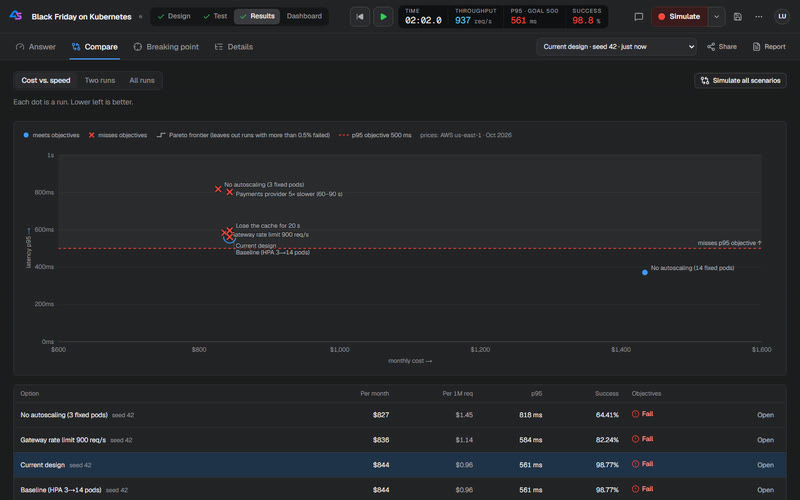
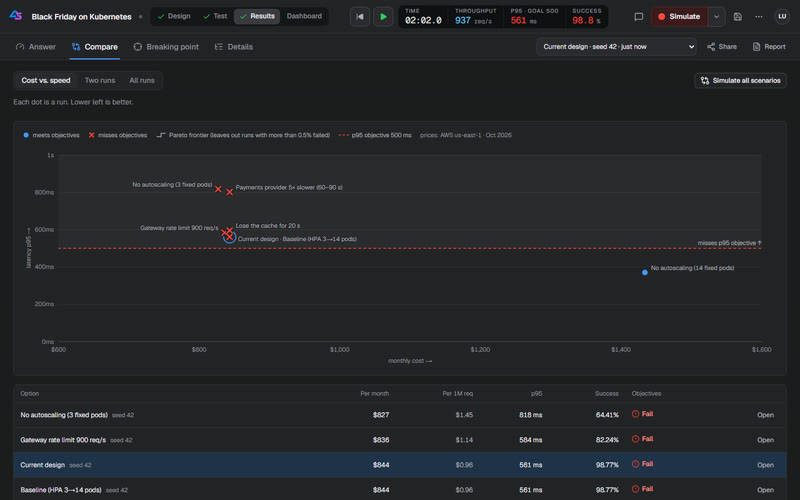
fix(web): keep the trade-offs map's labels off every marker and label
The README's trade-offs shot, Black Friday with every scenario simulated, puts four runs within $8
and 35 ms of each other. There the labels sat on markers: the X of one run covered the "G" of
"Gateway rate limit 900 req/s", and "Current design" and "Baseline (HPA 3→14 pods)" were stacked
on one point. placeLabels kept labels apart from each other but never from the markers.

Now each label takes the first free place, by the 6.4 px a character the map counts (Geist
Sans runs about 5 px, so the boxes err wide):
- just above its point on its usual side;
- its other side, if the label fits there whole;
- then a line down, a line up, and so on to four lines, with a leader to its point.
A place is free when it covers no run's marker (the current run's ring counts), no label already
placed and not the objective line's own label. A label with no free place is left out; the table
and the hover card still name the run. Runs drawn at one point share one label that names each:
"Current design · Baseline (HPA 3→14 pods)".

The vitest cases include the shot's own cluster, by its coordinates on the 1,357-px map. Checked
in the browser in light and dark at 1440 × 900 and at 390 px wide: no label's rendered box
touches a marker or another label. tradeoffs.jpg is retaken.

Changed region(s): [[0.1875, 0.45, 0.4375, 0.51], [0.1562, 0.36, 0.4375, 0.39]]

diff --git a/apps/web/src/components/decide/TradeoffMap.tsx b/apps/web/src/components/decide/TradeoffMap.tsx
@@ -32,16 +32,27 @@ const M = { top: 20, right: 28, bottom: 44, left: 64 };
 
 /** A point's direct label: longer ones end in an ellipsis. */
 const LABEL_CHARS = 40;
-/** The width of a character of the labels' 11 px monospace. */
+/** The width of a character of the labels' 11 px text. */
 const CHAR_W = 6.4;
-/** From a point's centre to its label. */
-const LABEL_GAP = 11;
+/** A marker's half-width: a point is drawn 7 px across its centre, and a pixel is kept around it. */
+const MARKER_R = 8;
+/** The half-width of the current run's marker, whose ring is drawn 11 px across its centre. */
+const ACTIVE_R = 12;
+/** From the edge of a point's marker to its label. */
+const LABEL_PAD = 3;
 /**
  * A label sits this far above its point: the frontier leaves each of its points to the right, at
  * the point's height, and would strike through a label beside it.
  */
 const LABEL_LIFT = 8;
+/** A line of the labels' text, which is how tall a label is. */
 const LINE = 12;
+/** The objective line's label. */
+const SLO_LABEL = "misses p95 objective ↑";
+/** Lines above or below its first place that a label may move before it is left out. */
+const MAX_LINES = 4;
+/** Points this close are drawn at one place. */
+const SAME_PLACE = 1;
 
 /** Where a point's label sits on the map, and what it says. */
 export interface PlacedLabel {
@@ -49,6 +60,23 @@ export interface PlacedLabel {
   y: number;
   anchor: "start" | "end";
   text: string;
+}
+
+/** A part of the map a label must not cover. */
+export interface Box {
+  x0: number;
+  x1: number;
+  y0: number;
+  y1: number;
+}
+
+/** A point to label: its marker's half-width `r` is the usual 8 px unless given. */
+interface LabelledPoint {
+  id: string;
+  label: string;
+  x: number;
+  y: number;
+  r?: number;
 }
 
 /** A label cut to `chars` characters with an ellipsis, after its last whole word when that keeps most of it. */
@@ -59,32 +87,78 @@ function shorten(label: string, chars: number): string {
   return `${(words.length >= chars * 0.6 ? words : cut).trimEnd()}…`;
 }
 
+const overlap = (a: Box, b: Box) => a.x0 < b.x1 && b.x0 < a.x1 && a.y0 < b.y1 && b.y0 < a.y1;
+
+/** What a point's marker covers: `r` either side of its centre, the usual 8 px unless given. */
+export function markerBox(p: { x: number; y: number; r?: number }): Box {
+  const r = p.r ?? MARKER_R;
+  return { x0: p.x - r, x1: p.x + r, y0: p.y - r, y1: p.y + r };
+}
+
+function labelBox(l: PlacedLabel): Box {
+  const width = l.text.length * CHAR_W;
+  const x0 = l.anchor === "start" ? l.x : l.x - width;
+  return { x0, x1: x0 + width, y0: l.y - LINE / 2, y1: l.y + LINE / 2 };
+}
+
+/** The points drawn at one place, as one point whose label names each of them, in their order. */
+function atOnePlace(points: LabelledPoint[]): LabelledPoint[] {
+  const places: LabelledPoint[][] = [];
+  for (const p of points) {
+    const place = places.find(([q]) => Math.abs(q.x - p.x) <= SAME_PLACE && Math.abs(q.y - p.y) <= SAME_PLACE);
+    if (place) place.push(p);
+    else places.push([p]);
+  }
+  return places.map((place) => ({
+    ...place[0],
+    label: [...new Set(place.map((p) => shorten(p.label, LABEL_CHARS)))].join(" · "),
+    r: Math.max(...place.map((p) => p.r ?? MARKER_R)),
+  }));
+}
+
 /**
- * The points' direct labels, just above each point: right of it, or left of it when the right
- * would run past the plot (cut to the wider side when neither fits). Placed top first, a label
- * that would overlap one already placed moves down a line.
+ * Where a point's label may go, best first. Just above the point: right of it, or left of it
+ * when the right would run past the plot (cut to the wider side when neither fits), then on its
+ * other side if the label fits there whole. Then the same a line lower, a line higher, two lines
+ * lower and so on, inside the plot's top and bottom.
+ */
+function placesFor(p: LabelledPoint, plot: { left: number; right: number; top?: number; bottom?: number }): PlacedLabel[] {
+  const gap = (p.r ?? MARKER_R) + LABEL_PAD;
+  const room = { start: plot.right - (p.x + gap), end: p.x - gap - plot.left };
+  const width = p.label.length * CHAR_W;
+  const first: PlacedLabel["anchor"] = width <= room.start || (width > room.end && room.start >= room.end) ? "start" : "end";
+  const other: PlacedLabel["anchor"] = first === "start" ? "end" : "start";
+  const sides = width <= room[other] ? [first, other] : [first];
+  const places: PlacedLabel[] = [];
+  for (let k = 0; k <= 2 * MAX_LINES; k++) {
+    const y = p.y - LABEL_LIFT + (k % 2 === 0 ? k / 2 : -(k + 1) / 2) * LINE;
+    if (y - LINE / 2 < (plot.top ?? -Infinity) || y + LINE / 2 > (plot.bottom ?? Infinity)) continue;
+    for (const anchor of sides) {
+      const text = width <= room[anchor] ? p.label : shorten(p.label, Math.max(Math.floor(room[anchor] / CHAR_W), 1));
+      places.push({ x: anchor === "start" ? p.x + gap : p.x - gap, y, anchor, text });
+    }
+  }
+  return places;
+}
+
+/**
+ * The points' direct labels, placed top first, each in the first of its places (see `placesFor`)
+ * that covers no point's marker, no label already placed and none of the `keepClear` boxes. A
+ * label with no such place is left out: the table and the hover card still name its point. Points
+ * drawn at one place share one label, on the first of them, that names each.
  */
 export function placeLabels(
-  points: { id: string; label: string; x: number; y: number }[],
-  plot: { left: number; right: number },
+  points: LabelledPoint[],
+  plot: { left: number; right: number; top?: number; bottom?: number },
+  keepClear: Box[] = [],
 ): Map<string, PlacedLabel> {
+  const taken = [...keepClear, ...points.map(markerBox)];
   const labels = new Map<string, PlacedLabel>();
-  const placed: { x0: number; x1: number; y: number }[] = [];
-  for (const p of [...points].sort((a, b) => a.y - b.y)) {
-    const full = shorten(p.label, LABEL_CHARS);
-    const rightRoom = plot.right - (p.x + LABEL_GAP);
-    const leftRoom = p.x - LABEL_GAP - plot.left;
-    const width = full.length * CHAR_W;
-    const anchor = width <= rightRoom || (width > leftRoom && rightRoom >= leftRoom) ? "start" : "end";
-    const room = anchor === "start" ? rightRoom : leftRoom;
-    const text = width <= room ? full : shorten(full, Math.max(Math.floor(room / CHAR_W), 1));
-    const x = anchor === "start" ? p.x + LABEL_GAP : p.x - LABEL_GAP;
-    const x0 = anchor === "start" ? x : x - text.length * CHAR_W;
-    const x1 = x0 + text.length * CHAR_W;
-    let y = p.y - LABEL_LIFT;
-    for (let k = 0; k < 8 && placed.some((b) => Math.abs(b.y - y) < LINE && b.x0 < x1 && x0 < b.x1); k++) y += LINE;
-    placed.push({ x0, x1, y });
-    labels.set(p.id, { x, y, anchor, text });
+  for (const p of atOnePlace(points).sort((a, b) => a.y - b.y)) {
+    const label = placesFor(p, plot).find((place) => !taken.some((box) => overlap(labelBox(place), box)));
+    if (!label) continue;
+    taken.push(labelBox(label));
+    labels.set(p.id, label);
   }
   return labels;
 }
@@ -210,10 +284,15 @@ export function TradeoffMap() {
   const slo = objectives.latencyP95Ms;
   const hovered = points.find((p) => p.runId === hover) ?? null;
   const showLabels = points.length <= 8;
+  const markers = points.map((p) => ({ id: p.runId, label: p.label, x: sx(p.cost), y: sy(p.p95), r: p.runId === activeRunId ? ACTIVE_R : MARKER_R }));
+  // the objective line's own label, "misses p95 objective ↑", at the plot's right end
+  const sloLabel: Box[] =
+    slo != null && slo <= ys.max ? [{ x0: M.left + iw - SLO_LABEL.length * CHAR_W, x1: M.left + iw, y0: sy(slo) - 6 - LINE, y1: sy(slo) - 3 }] : [];
   // Direct labels for a handful of options; a hovered one shows its label however many there are.
   const labels = placeLabels(
-    points.filter((p) => showLabels || p.runId === hover).map((p) => ({ id: p.runId, label: p.label, x: sx(p.cost), y: sy(p.p95) })),
-    { left: M.left, right: width },
+    markers.filter((m) => showLabels || m.id === hover),
+    { left: M.left, right: width, top: 0, bottom: M.top + ih },
+    [...sloLabel, ...markers.map(markerBox)],
   );
   const tick = "font-mono text-[11px]";
 
@@ -300,7 +379,7 @@ export function TradeoffMap() {
                 <g>
                   <line x1={M.left} x2={M.left + iw} y1={sy(slo)} y2={sy(slo)} stroke="var(--status-critical)" strokeWidth={1.5} strokeDasharray="5 4" />
                   <text x={M.left + iw} y={sy(slo) - 6} textAnchor="end" className="font-mono text-[11px]" fill="var(--ink-2)">
-                    misses p95 objective ↑
+                    {SLO_LABEL}
                   </text>
                 </g>
               )}
@@ -311,6 +390,8 @@ export function TradeoffMap() {
                 const active = p.runId === activeRunId;
                 const label = labels.get(p.runId);
                 const side = label?.anchor === "end" ? -1 : 1;
+                // a label moved off its first line is tied to its point, from the marker's edge
+                const edge = (active ? 11 : 7) * side;
                 return (
                   <g key={p.runId}>
                     {active && <circle cx={x} cy={y} r={11} fill="none" stroke="var(--accent)" strokeWidth={1.5} />}
@@ -325,7 +406,7 @@ export function TradeoffMap() {
                     {label && (
                       <>
                         {Math.abs(label.y - (y - LABEL_LIFT)) > 3 && (
-                          <path d={`M${x + 5 * side},${y} L${x + 9 * side},${label.y}`} stroke="var(--line-strong)" strokeWidth={1} fill="none" />
+                          <path d={`M${x + edge},${y} L${label.x - 2 * side},${label.y}`} stroke="var(--line-strong)" strokeWidth={1} fill="none" />
                         )}
                         {/* the halo keeps grid and objective lines from running through the text */}
                         <text

diff --git a/apps/web/src/components/decide/TradeoffMap.test.ts b/apps/web/src/components/decide/TradeoffMap.test.ts
@@ -1,7 +1,38 @@
 import { describe, expect, it } from "vitest";
-import { placeLabels } from "./TradeoffMap";
+import { type PlacedLabel, placeLabels } from "./TradeoffMap";
 
 const PLOT = { left: 64, right: 1000 };
+
+/** What the map says a label covers: its text at 6.4 px a character, 12 px tall. */
+function labelBox(l: PlacedLabel) {
+  const width = l.text.length * 6.4;
+  const x0 = l.anchor === "start" ? l.x : l.x - width;
+  return { x0, x1: x0 + width, y0: l.y - 6, y1: l.y + 6 };
+}
+
+/** A marker's box: a point drawn 7 px across its centre, and a pixel around it. */
+function markerBox(p: { x: number; y: number; r?: number }) {
+  const r = p.r ?? 8;
+  return { x0: p.x - r, x1: p.x + r, y0: p.y - r, y1: p.y + r };
+}
+
+type Box = ReturnType<typeof labelBox>;
+const touch = (a: Box, b: Box) => a.x0 < b.x1 && b.x0 < a.x1 && a.y0 < b.y1 && b.y0 < a.y1;
+
+/**
+ * Black Friday on Kubernetes with every scenario simulated and the design run once more, as the
+ * README's trade-offs shot draws it on a 1,357-px map: four runs within $8 and 35 ms of each other.
+ */
+const BLACK_FRIDAY = [
+  { id: "fixed3", label: "No autoscaling (3 fixed pods)", x: 351.5, y: 81.2 },
+  { id: "payments", label: "Payments provider 5× slower (60–90 s)", x: 372.2, y: 86.6 },
+  { id: "cache", label: "Lose the cache for 20 s", x: 372.2, y: 155.9 },
+  { id: "gateway", label: "Gateway rate limit 900 req/s", x: 363.0, y: 159.8 },
+  { id: "current", label: "Current design", x: 372.2, y: 167.4, r: 12 },
+  { id: "baseline", label: "Baseline (HPA 3→14 pods)", x: 372.2, y: 167.4 },
+  { id: "fixed14", label: "No autoscaling (14 fixed pods)", x: 1119.0, y: 231.6 },
+];
+const MAP = { left: 64, right: 1357, top: 20, bottom: 356 };
 
 describe("placeLabels", () => {
   it("sets a label of up to 40 characters whole, right of its point and just above it, clear of the frontier", () => {
@@ -34,7 +65,7 @@ describe("placeLabels", () => {
     expect(placed?.text.endsWith("…")).toBe(true);
   });
 
-  it("moves a label that would overlap one above it down a line", () => {
+  it("sets a label on its point's other side when the first would cover a point beside it", () => {
     const labels = placeLabels(
       [
         { id: "low", label: "Bigger database: 4 vCPU / 16 GiB", x: 300, y: 106 },
@@ -43,7 +74,69 @@ describe("placeLabels", () => {
       PLOT,
     );
 
-    expect(labels.get("high")?.y).toBe(92);
+    expect(labels.get("high")).toMatchObject({ x: 331, y: 92, anchor: "start" });
+    expect(labels.get("low")).toMatchObject({ x: 289, y: 98, anchor: "end" });
+  });
+
+  it("moves a label down a line when neither side of its point is free", () => {
+    const labels = placeLabels(
+      [
+        { id: "low", label: "Bigger database: 4 vCPU / 16 GiB", x: 300, y: 106 },
+        { id: "right", label: "Read replica: 2 × 2 vCPU", x: 320, y: 96 },
+        { id: "left", label: "Two API VMs", x: 280, y: 96 },
+      ],
+      PLOT,
+    );
+
     expect(labels.get("low")?.y).toBe(110);
+  });
+
+  it("keeps every label of a tight cluster off every marker and every other label", () => {
+    const labels = placeLabels(BLACK_FRIDAY, MAP);
+
+    const boxes = [...labels.values()].map(labelBox);
+    for (const [i, box] of boxes.entries()) {
+      for (const point of BLACK_FRIDAY) expect(touch(box, markerBox(point))).toBe(false);
+      for (const other of boxes.slice(i + 1)) expect(touch(box, other)).toBe(false);
+    }
+    expect([...labels.keys()].sort()).toEqual(["cache", "current", "fixed14", "fixed3", "gateway", "payments"]);
+  });
+
+  it("names the runs at one point in one label", () => {
+    const labels = placeLabels(BLACK_FRIDAY, MAP);
+
+    expect(labels.get("current")?.text).toBe("Current design · Baseline (HPA 3→14 pods)");
+    expect(labels.has("baseline")).toBe(false);
+  });
+
+  it("sets a label clear of its point's wider marker", () => {
+    const placed = placeLabels([{ id: "a", label: "Current design", x: 300, y: 100, r: 12 }], PLOT).get("a");
+
+    expect(placed?.x).toBe(315);
+  });
+
+  it("keeps a label off a box it is told to keep clear", () => {
+    const objective = { x0: 200, x1: 400, y0: 86, y1: 98 };
+
+    const placed = placeLabels([{ id: "a", label: "Bigger database", x: 300, y: 100 }], PLOT, [objective]).get("a");
+
+    expect(touch(labelBox(placed!), objective)).toBe(false);
+  });
+
+  it("keeps a label inside the map's top and bottom", () => {
+    const placed = placeLabels([{ id: "a", label: "Bigger database", x: 300, y: 22 }], { ...PLOT, top: 20, bottom: 356 }).get("a");
+
+    expect(labelBox(placed!).y0).toBeGreaterThanOrEqual(20);
+  });
+
+  it("leaves a label out rather than set it on a marker or another label", () => {
+    // a point boxed in by its neighbours on every side and every line within reach
+    const crowd = [-60, -48, -36, -24, -12, 0, 12, 24, 36, 48, 60].flatMap((dy) =>
+      [-30, -14, 14, 30].map((dx) => ({ id: `${dx},${dy}`, label: "x", x: 300 + dx, y: 200 + dy })),
+    );
+
+    const labels = placeLabels([{ id: "a", label: "Hemmed in", x: 300, y: 200 }], PLOT, crowd.map(markerBox));
+
+    expect(labels.has("a")).toBe(false);
   });
 });

diff --git a/CHANGELOG.md b/CHANGELOG.md
@@ -33,6 +33,13 @@ for when that version changes.
   the base load, as before), is left out of a document while 0, and is set in Design → Traffic
   for a burst, a ramp or a trace. Older documents upgrade with no other change.
 
+### Fixed
+
+- **Labels on the Cost vs. speed map.** A run's label no longer covers another run's marker or
+  label, or the objective line's label: it moves to its point's other side, or a line down or up
+  with a leader to its point, and is left out (the table and the hover card still name the run)
+  only when nothing nearby is free. Runs drawn at one point share one label that names each.
+
 ## [1.0.0] - Draft, not released yet
 
 The first public release. ArchSim predicts how a system design behaves under load, failures and
